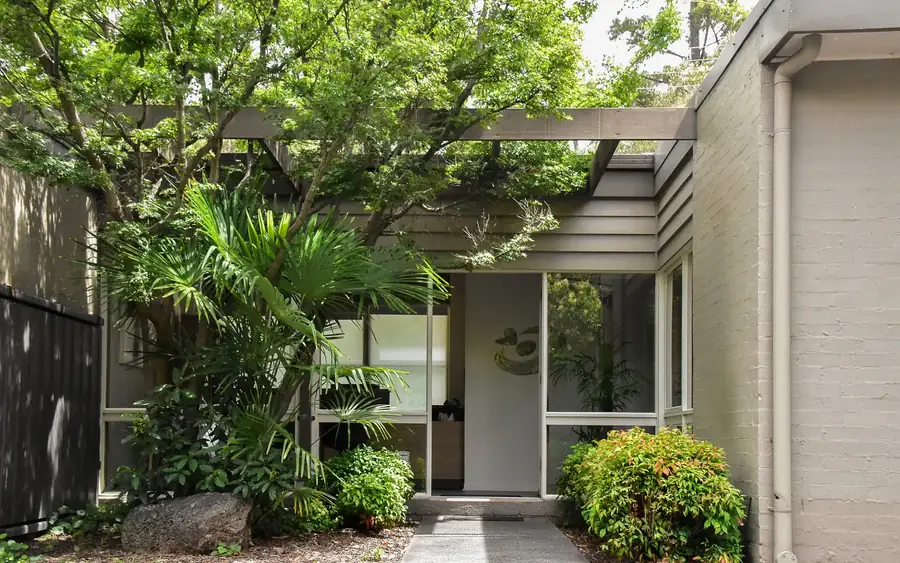
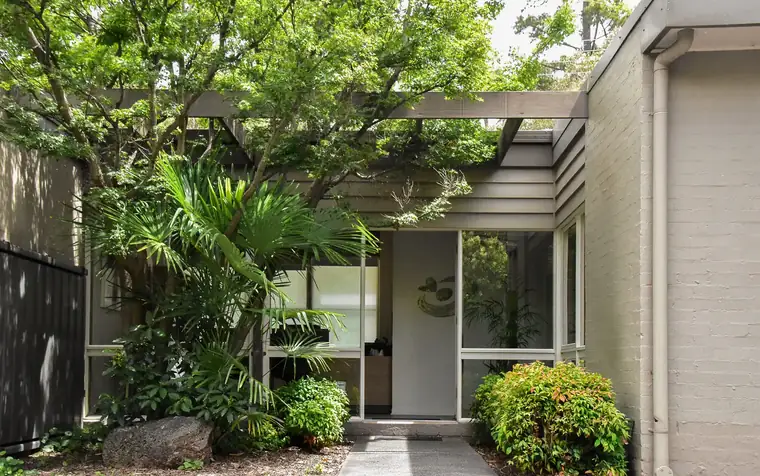
Further reduce LCP and eliminate font-swap layout shift
- Load gtag on first interaction or 5s after load
- Add metric-adjusted Arial fallback for Lexend to prevent CLS
- Shrink mobile hero image to 760px (96 KB -> 70 KB)

diff --git a/index.html b/index.html
@@ -27,7 +27,7 @@
         <meta name="twitter:image" content="https://www.embodyhealthcare.com.au/Assets/Reception-2-2.webp">
     </head>
     <!-- Google tag (gtag.js) -->
-    <script>window.addEventListener('load', () => { const s = document.createElement('script'); s.src = 'https://www.googletagmanager.com/gtag/js?id=G-KFQSH2T9EG'; s.async = true; document.head.appendChild(s); });</script>
+    <script>(() => { let loaded = false; const load = () => { if (loaded) return; loaded = true; const s = document.createElement('script'); s.src = 'https://www.googletagmanager.com/gtag/js?id=G-KFQSH2T9EG'; s.async = true; document.head.appendChild(s); }; ['pointerdown', 'keydown', 'scroll', 'touchstart'].forEach(e => addEventListener(e, load, { once: true, passive: true })); addEventListener('load', () => setTimeout(load, 5000)); })();</script>
     <script>
     window.dataLayer = window.dataLayer || [];
     function gtag(){dataLayer.push(arguments);}

diff --git a/online-bookings/index.html b/online-bookings/index.html
@@ -25,7 +25,7 @@
     <meta name="twitter:image" content="https://www.embodyhealthcare.com.au/Assets/Reception-2-2.webp">
 </head>
 <!-- Google tag (gtag.js) -->
-<script>window.addEventListener('load', () => { const s = document.createElement('script'); s.src = 'https://www.googletagmanager.com/gtag/js?id=G-KFQSH2T9EG'; s.async = true; document.head.appendChild(s); });</script>
+<script>(() => { let loaded = false; const load = () => { if (loaded) return; loaded = true; const s = document.createElement('script'); s.src = 'https://www.googletagmanager.com/gtag/js?id=G-KFQSH2T9EG'; s.async = true; document.head.appendChild(s); }; ['pointerdown', 'keydown', 'scroll', 'touchstart'].forEach(e => addEventListener(e, load, { once: true, passive: true })); addEventListener('load', () => setTimeout(load, 5000)); })();</script>
 <script>
   window.dataLayer = window.dataLayer || [];
   function gtag(){dataLayer.push(arguments);}

diff --git a/about-us/index.html b/about-us/index.html
@@ -25,7 +25,7 @@
     <link rel="stylesheet" href="../aboutUs.css">
 </head>
 <!-- Google tag (gtag.js) -->
-<script>window.addEventListener('load', () => { const s = document.createElement('script'); s.src = 'https://www.googletagmanager.com/gtag/js?id=G-KFQSH2T9EG'; s.async = true; document.head.appendChild(s); });</script>
+<script>(() => { let loaded = false; const load = () => { if (loaded) return; loaded = true; const s = document.createElement('script'); s.src = 'https://www.googletagmanager.com/gtag/js?id=G-KFQSH2T9EG'; s.async = true; document.head.appendChild(s); }; ['pointerdown', 'keydown', 'scroll', 'touchstart'].forEach(e => addEventListener(e, load, { once: true, passive: true })); addEventListener('load', () => setTimeout(load, 5000)); })();</script>
 <script>
   window.dataLayer = window.dataLayer || [];
   function gtag(){dataLayer.push(arguments);}

diff --git a/contact-us/index.html b/contact-us/index.html
@@ -27,7 +27,7 @@
 
 </head>
 <!-- Google tag (gtag.js) -->
-<script>window.addEventListener('load', () => { const s = document.createElement('script'); s.src = 'https://www.googletagmanager.com/gtag/js?id=G-KFQSH2T9EG'; s.async = true; document.head.appendChild(s); });</script>
+<script>(() => { let loaded = false; const load = () => { if (loaded) return; loaded = true; const s = document.createElement('script'); s.src = 'https://www.googletagmanager.com/gtag/js?id=G-KFQSH2T9EG'; s.async = true; document.head.appendChild(s); }; ['pointerdown', 'keydown', 'scroll', 'touchstart'].forEach(e => addEventListener(e, load, { once: true, passive: true })); addEventListener('load', () => setTimeout(load, 5000)); })();</script>
 <script>
   window.dataLayer = window.dataLayer || [];
   function gtag(){dataLayer.push(arguments);}

diff --git a/styles.css b/styles.css
@@ -1,3 +1,13 @@
+/* Arial metrics adjusted to match Lexend, so the font swap doesn't shift the layout */
+@font-face {
+    font-family: 'Lexend Fallback';
+    src: local('Arial');
+    size-adjust: 109.3%;
+    ascent-override: 91.5%;
+    descent-override: 22.9%;
+    line-gap-override: 0%;
+}
+
 :root{
     --background-color: #ECEADA;
     --background-text-color: #0F0F0F;
@@ -20,7 +30,7 @@
 }
 
 body, html {
-    font-family: 'Lexend', sans-serif;
+    font-family: 'Lexend', 'Lexend Fallback', sans-serif;
     color: red;
     margin: 0px;
     padding: 0px;
